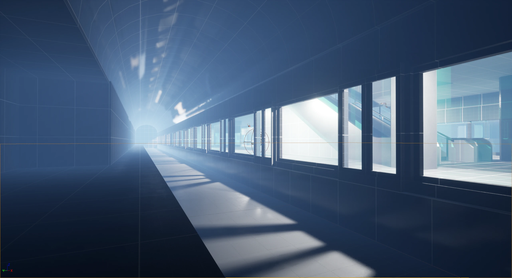
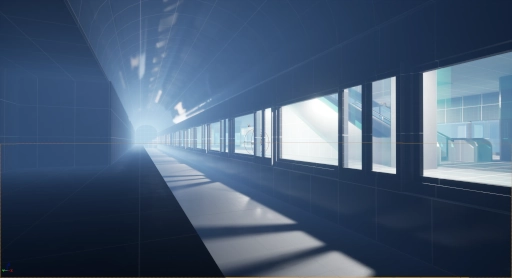
Terminal thumbs

Changed region(s): [[0.0, 0.9496, 0.9375, 1.0], [0.9688, 0.9784, 1.0, 1.0], [0.8438, 0.6619, 0.875, 0.6906]]

diff --git a/README.md b/README.md
@@ -28,19 +28,8 @@
 - [x] Fallback fonts to help while loading fonts
 - [x] Buy Domain Name
 - [ ] Overall performance pass, preloads, lazyloads etc.
-- [ ] Do thumbs in gimp instead of tool it'll be better optimized (tu-misc & roblox done)
-- [x] Deathrun thumbs
-- [x] Junk Flea thumbs
-- [x] Hot Pursuit thumbs
-- [x] Overdose thumbs
-- [x] Exploded Cinema thumbs
-- [x] Lumbridge Castle thumbs
-- [x] Quindecim thumbs
-- [x] Station 58 thumbs
-- [ ] Terminal thumbs
 - [ ] ...
 - [ ] Consider moving navbar stuff to right side on mobile since most people are right handed
 - [ ] Make sure mobile nav visibility hidden when not popover open is the correct play
-- [ ] Fix canonical URL head
 
 </details>
